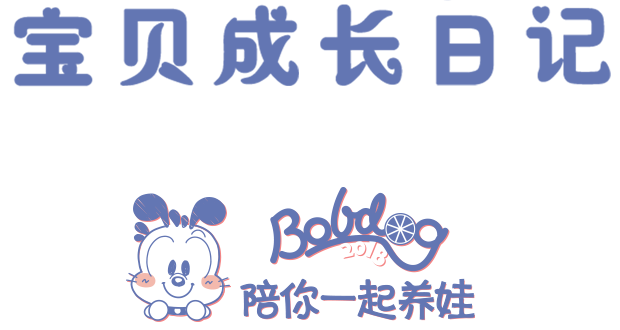
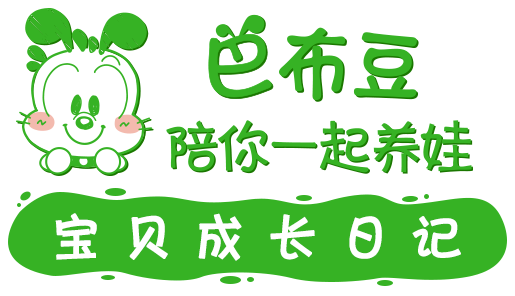
添加退出登录按钮，修改首页

diff --git a/web/css/style.css b/web/css/style.css
@@ -39,12 +39,14 @@ img{
 .remember_forget input{position: relative;top:2px;width:15px;height:15px;border:1px solid #CCCCCC;}
 .login_sub{width:100%;height:38px;border-radius: 4px;color:#fff;font-size: 18px;background: #5EC051;margin-top:22px;cursor: pointer;}
 
-.home{width:100%;height:100%;background:#fff;position: relative;}
-.home img{width:60%;height:auto;position: absolute;top:50%;left:50%;transform: translate(-50%,-50%);}
+.home{width:100%;height:100%;background:#fff url('../images/index_bg.png');position: relative;}
+.home img{width:40%;height:auto;position: absolute;top:50%;left:50%;transform: translate(-50%,-50%);}
+.quit{display: flex;width:100%;height:10%;background:#fff;border-bottom: 1px solid #DBDEDE;align-items: center;justify-content: flex-end;box-sizing: border-box;}
+.quit a{margin-right:45px;width:60px;color:#3CCF79;font-size: 16px;text-align: center;}
 
 /*系统管理页面*/
 .left_bar{float:left;width:20%;height:100%;background:#34495E;color:#90A0A2;font-weight: bold;}
-.logo{height:90px;background:#2ECC71;padding-top: 8px;box-sizing: border-box;}
+.logo{height:10%;background:#2ECC71;padding-top: 8px;box-sizing: border-box;}
 .logo p{width:74px;height:74px;margin:0 auto;}
 .administration_name{height:75px;line-height: 75px;text-align: center;font-size: 18px;}
 .system_management>p,.data_center>p{padding-left: 72px;font-size: 16px;line-height: 48px;background: #243342;position: relative;}
@@ -65,12 +67,13 @@ img{
 .search li{border-top: 1px solid #5BC94B;box-sizing: border-box;}
 .search ul li:hover{background:#FFF;color:#5BC94B;}
 .search ul li.active{background:#FFF;color:#5BC94B;border-top: 1px solid #5BC94B;box-sizing: border-box;}
-.search_content .search_type{float: right;margin-right: 45px;margin-top: 8px;width:184px;height:40px;border:1px solid #CFCFCF;border-radius: 20px;text-align: center;outline: none;background:#FFF;cursor: pointer;}
+.search_content a{float: right;width:60px;margin-right: 45px;margin-top: 8px;line-height: 40px;color:#46D180;font-size: 16px;text-align: center;}
+.search_content .search_type{float: right;margin-right: 10px;margin-top: 8px;width:184px;height:40px;border:1px solid #CFCFCF;border-radius: 20px;text-align: center;outline: none;background:#FFF;cursor: pointer;}
 .search i{position: absolute;width:10px;height:6px;background: url('../images/drop_down.png') no-repeat;top:42px;right:60px;}
 .search_content button{float: right;width:40px;height:40px;background: #2ECC71 url('../images/search.png') no-repeat center center;background-size: 16px 16px;margin-top:8px;margin-right: 8px;border-radius: 50%;cursor: pointer;border:0;}
 .manage_container{display:none;height:630px;border-top: 1px solid #DBDEDE;padding:20px 20px 19px;box-sizing: border-box;background:#EDF0F0;}
 
-.main_account_manage,.partner_account,.partner_manage{width:90%;height:90%;background: #fff;margin:4% 5%;box-sizing: border-box;}
+.main_account_manage,.partner_account,.partner_manage{width:90%;height:80%;background: #fff;margin:4% 5%;box-sizing: border-box;}
 .main_account_manage{padding: 20px 40px;}
 .main_account_manage>p,.partner_account_manage>p,.partner_account_list>p,.partner_manage>p{line-height: 50px;border-bottom: 1px solid #DEE1E2;color:#2ECC71;font-size: 20px;}
 .main_account_eqit,.partner_account_eqit{width:356px;margin:0 auto;}

diff --git a/views/admin/update.php b/views/admin/update.php
@@ -17,6 +17,9 @@ if(empty($model->type) || ($model->type == 3)){
     <?php
     if(empty($model->type) || ($model->type == 3)){
     ?>
+        <div class="quit">
+            <a href="/site/logout">退出</a>
+        </div>
         <div class="partner_account">
             <div class="partner_account_manage">
                 <p>宝贝星球</p>
@@ -95,6 +98,9 @@ if(empty($model->type) || ($model->type == 3)){
     <?php
     }else{
     ?>
+        <div class="quit">
+            <a href="/site/logout">退出</a>
+        </div>
         <div class="main_account_manage">
             <p><?= Html::encode($this->title) ?></p>
             <div class="main_account_eqit">

diff --git a/views/admin/index.php b/views/admin/index.php
@@ -10,6 +10,9 @@ use yii\grid\GridView;
 $this->title = '合作商管理';
 ?>
 <div class="admin-index">
+    <div class="quit">
+        <a href="/site/logout">退出</a>
+    </div>
     <div class="partner_manage">
         <p>
             <span><?= Html::encode($this->title) ?></span>

diff --git a/views/users/_search.php b/views/users/_search.php
@@ -12,6 +12,8 @@ use app\models\UsersSearch;
 
 <div class="users-search search_content">
 
+    <a href="/site/logout">退出</a>
+
     <?php $form = ActiveForm::begin([
         'action' => ['index'],
         'method' => 'get',
